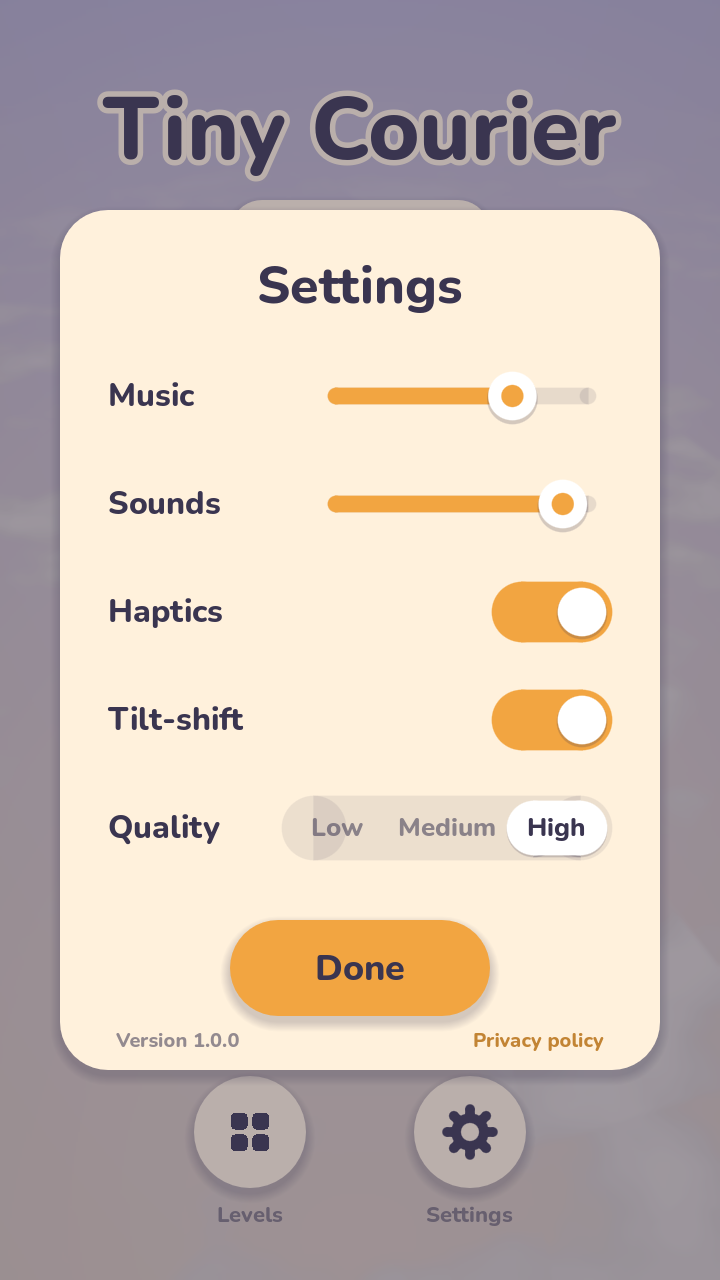
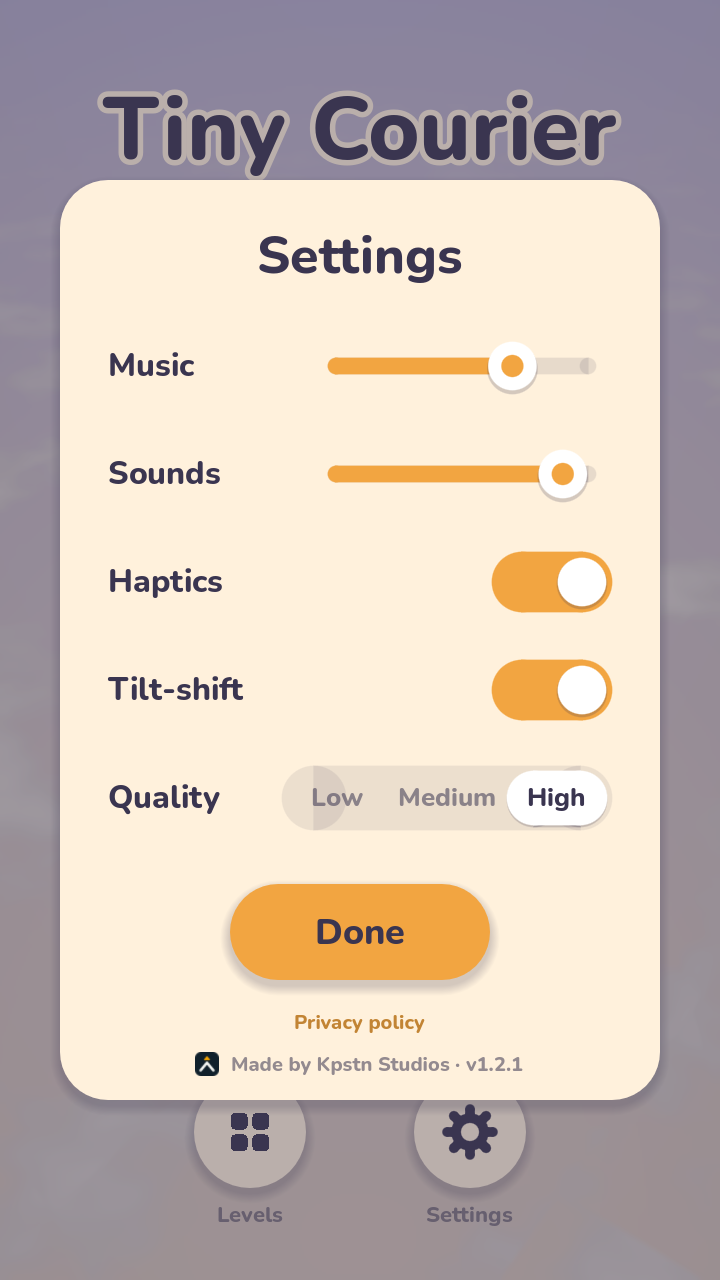
Show the studio credit in the settings screenshot, tidy its notes
Re-captures step9_settings.png (used by the README) with the credit and
the mark imported at 0.6 scale with mipmaps, and words the release notes
and CREDITS without the old studio name.

diff --git a/CREDITS.md b/CREDITS.md
@@ -34,7 +34,8 @@ third-party sounds are used.
 Every model, texture, shader, particle and animation (the clay blocks, the
 courier, the props, the sky and clouds, the weather and the user interface
 icons) is built procedurally in code under `render/`, `shaders/`,
-`entities/` and `ui/`. There are no external model, image or texture files.
+`entities/` and `ui/`. Apart from the studio mark below, there are no
+external model, image or texture files.
 The app icons in `icons/` are rendered from the game itself by
 `tools/make_icon.gd`.
 

diff --git a/docs/store/release_notes.md b/docs/store/release_notes.md
@@ -8,8 +8,7 @@ language's tags; paste each block as it is.
 Bump `version/code` to 4 and `version/name` to "1.2.1" in both presets of
 `export_presets.cfg` (and `config/version` in `project.godot`) before
 building it. Changes since 1.2.0: Settings ends with the studio credit, the
-Kpstn Studios mark and "Made by Kpstn Studios" with the version (the studio
-was called MSG Studios until 2026-11-11).
+Kpstn Studios mark and "Made by Kpstn Studios" with the version.
 
 ```
 <en-US>
